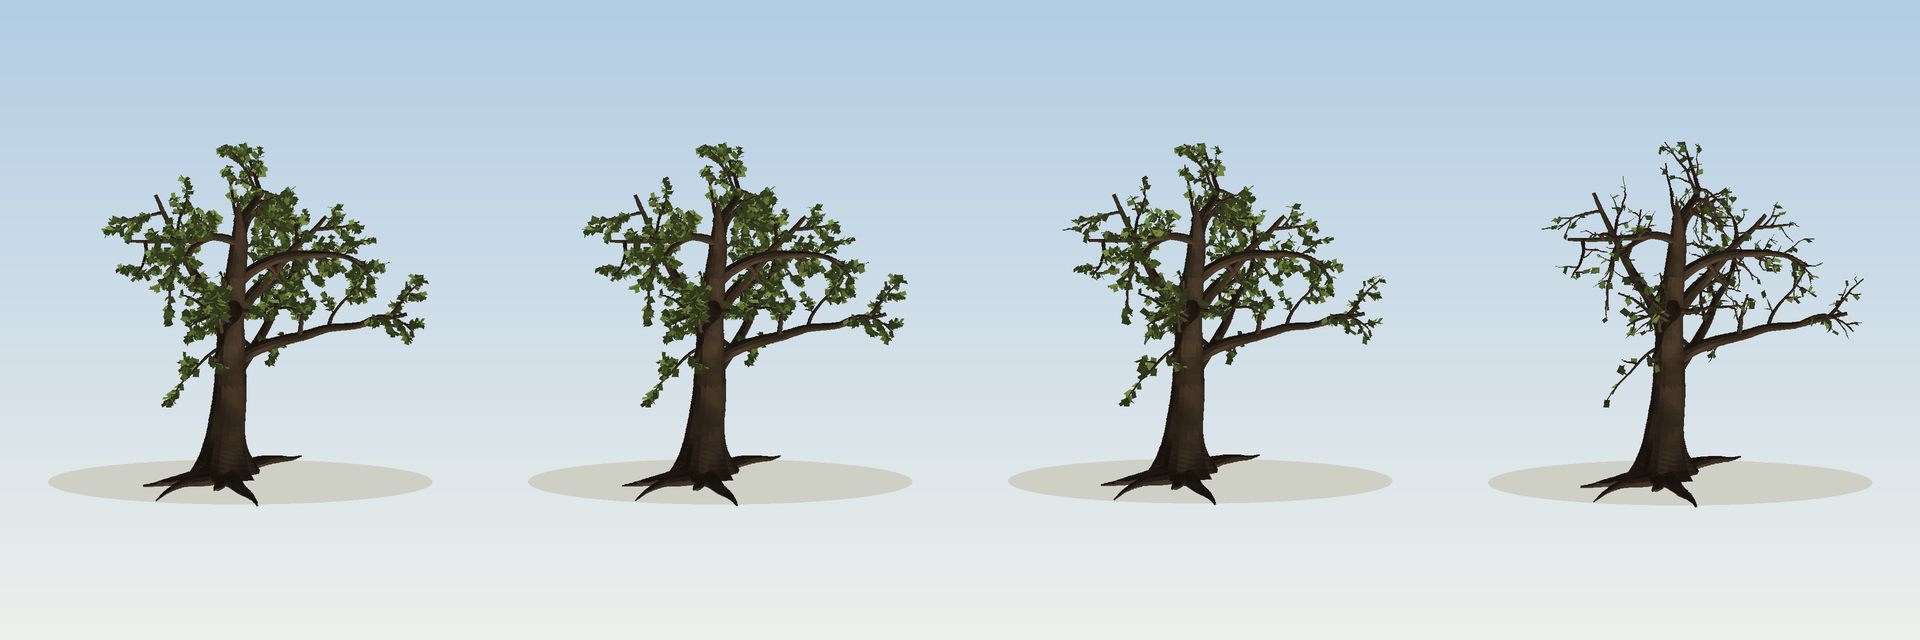
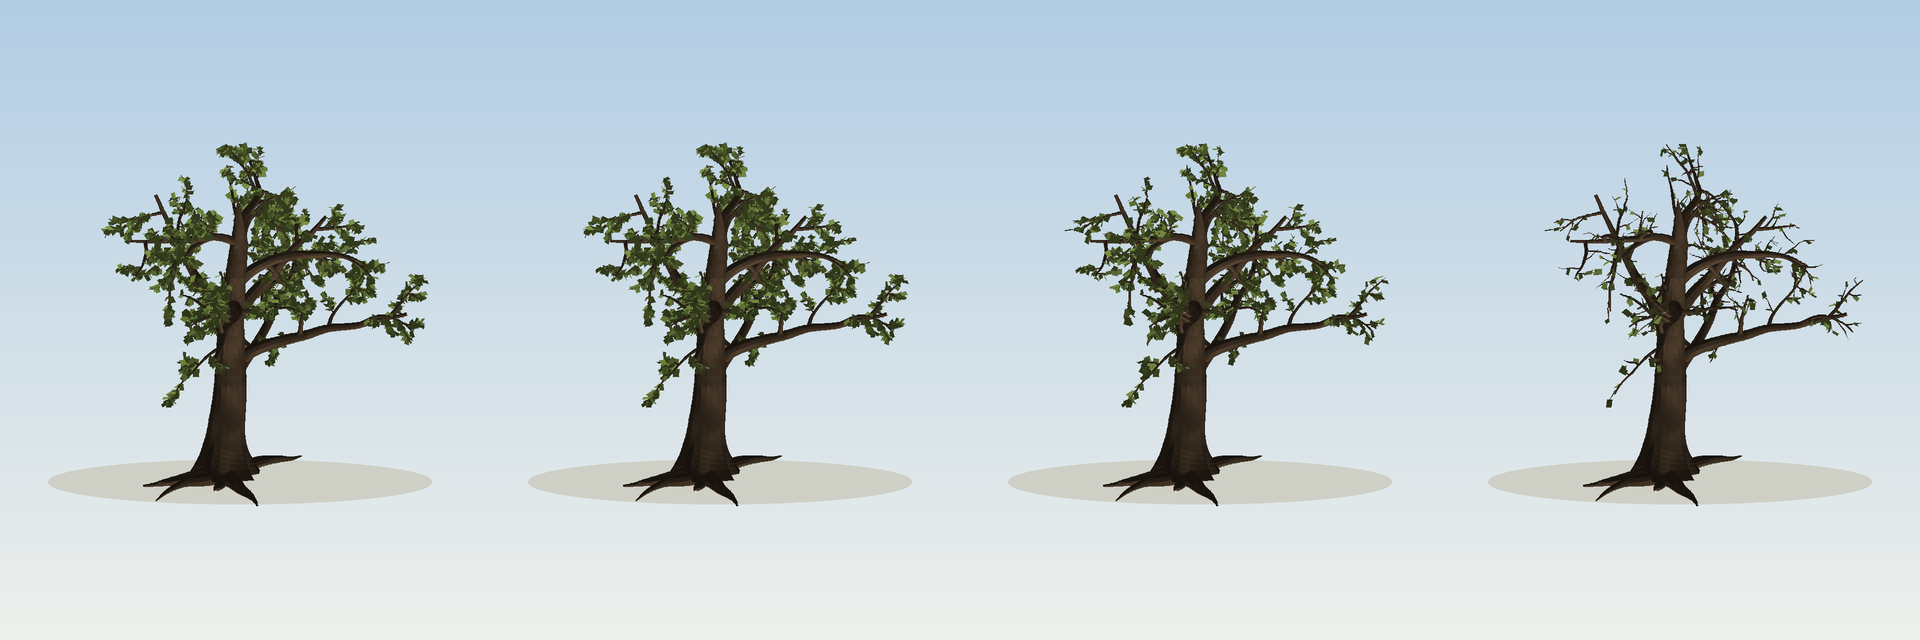
Fix apparent base/root movement in wind renders: lock the camera
Follow-up to the wind falloff fix (supervisor re-report): the geometry
was planted (regression test bounds base/root movement at 0.5 mm) but
the diagnostic renderer auto-frames every frame from that frame's
bounding box — the swaying crown changed the bounds, so the camera
drifted and the whole image (base, roots, ground) appeared to rock
slowly.

- wind_gif and season_strip now lock the camera to the calm/summer
  pose's bounds (growth_gif already did)
- Baked-in guard: after writing oak_wind.gif the baker asserts the
  bottom-15% band (ground, roots, trunk foot) is pixel-identical
  across all frames; verified 0 changed pixels over 26 frames while
  the crown band changes 11.5% (the actual wind). The only sub-crown
  motion left is low bough tips, which should sway
- oak_wind.gif and oak_seasons.png re-baked with the fixed camera

diff --git a/tools/showcase/render_animations.py b/tools/showcase/render_animations.py
@@ -54,7 +54,15 @@ def save_gif(frames, path, duration_ms):
 
 
 def wind_gif(tmp):
-    """Coastal Oak in a gusty breeze; ping-pong loop for seamless playback."""
+    """Coastal Oak in a gusty breeze; ping-pong loop for seamless playback.
+
+    The camera is LOCKED to the calm pose's bounds: auto-framing each frame
+    would follow the swaying crown's bounding box and make the whole image
+    (base included) appear to drift.
+    """
+    calm = os.path.join(tmp, 'wind_calm')
+    export_frame('CoastalOak.canopyproj', calm, wind_strength=0)
+    center, size = bbox_focus(calm)
     frames = []
     count = 14
     for i in range(count):
@@ -62,8 +70,30 @@ def wind_gif(tmp):
         base = os.path.join(tmp, f'wind_{i}')
         export_frame('CoastalOak.canopyproj', base,
                      time=t, wind_strength=0.75, wind_direction=25, gust=0.6)
-        frames.append(frame_image(base, base + '.png', w=560, h=700, azim_deg=30))
-    save_gif(frames + frames[-2:0:-1], os.path.join(OUT, 'oak_wind.gif'), 110)
+        frames.append(frame_image(base, base + '.png', w=560, h=700, azim_deg=30,
+                                  focus_center=center, focus_size=size * 1.06,
+                                  bases=[(0, 0, 0)]))
+    path = os.path.join(OUT, 'oak_wind.gif')
+    save_gif(frames + frames[-2:0:-1], path, 110)
+    _assert_base_planted(path)
+
+
+def _assert_base_planted(gif_path):
+    """Guard: the ground/roots/trunk-foot band (bottom 15%) must be pixel-
+    static across every wind frame — catches both geometry regressions
+    (rigid sway) and camera regressions (per-frame auto-framing drift)."""
+    import numpy as np
+    from PIL import ImageSequence
+    gif = Image.open(gif_path)
+    seq = [np.asarray(f.convert('RGB'), dtype=np.int16)
+           for f in ImageSequence.Iterator(gif)]
+    h = seq[0].shape[0]
+    ground = slice(int(h * 0.85), h)
+    for frame in seq[1:]:
+        changed = int((np.abs(frame - seq[0]).max(axis=2)[ground] > 12).sum())
+        assert changed == 0, f'base region moved: {changed} px changed'
+    print('base-planted check: OK (bottom 15% pixel-static across '
+          f'{len(seq)} frames)')
 
 
 def growth_gif(tmp):
@@ -88,11 +118,17 @@ def growth_gif(tmp):
 
 def season_strip(tmp):
     """Coastal Oak across the season track: summer → autumn color → drop."""
+    # Fixed camera across panels (leaf drop shrinks the bounding box).
+    summer = os.path.join(tmp, 'season_ref')
+    export_frame('CoastalOak.canopyproj', summer, season=0.45)
+    center, size = bbox_focus(summer)
     panels = []
     for season in (0.45, 0.72, 0.85, 0.97):
         base = os.path.join(tmp, f'season_{int(season * 100)}')
         export_frame('CoastalOak.canopyproj', base, season=season)
-        panels.append(frame_image(base, base + '.png', w=480, h=640, azim_deg=30))
+        panels.append(frame_image(base, base + '.png', w=480, h=640, azim_deg=30,
+                                  focus_center=center, focus_size=size,
+                                  bases=[(0, 0, 0)]))
     strip = Image.new('RGB', (sum(p.width for p in panels), panels[0].height))
     x = 0
     for panel in panels: